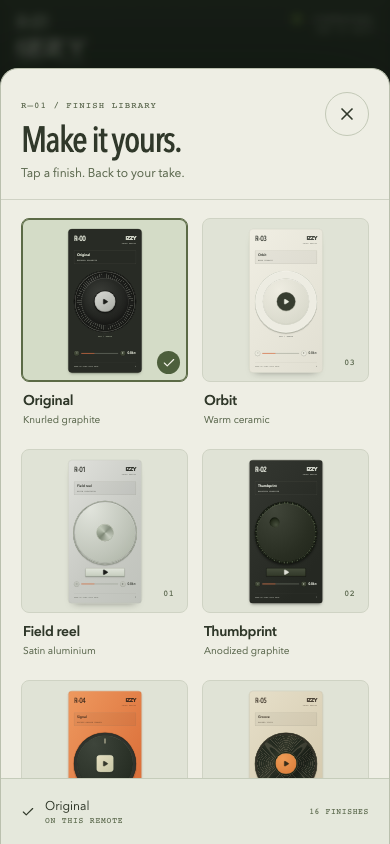
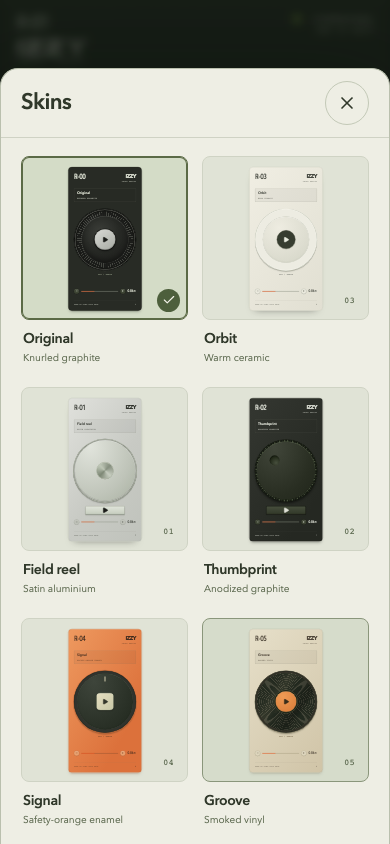
Simplify remote skin picker copy and layout

diff --git a/src/product/remote-skin-library.css b/src/product/remote-skin-library.css
@@ -5,10 +5,8 @@
 }
 .remote-skin-library[open] { display:flex; flex-direction:column; }
 .remote-skin-library::backdrop { background:#0d160dbd; backdrop-filter:blur(5px); }
-.remote-skin-heading { display:flex; flex-shrink:0; justify-content:space-between; gap:16px; padding:25px 24px 20px; border-bottom:1px solid #cfd2c4; }
-.remote-skin-eyebrow { font:9px/1.5 'SFMono-Regular',Consolas,monospace; letter-spacing:.12em; color:#647057; }
-.remote-skin-heading h2 { margin:8px 0 6px; font:500 38px/1.05 'Avenir Next Condensed','Helvetica Neue',sans-serif; letter-spacing:-.045em; }
-.remote-skin-heading p { margin:0; font-size:12px; color:#647057; }
+.remote-skin-heading { display:flex; flex-shrink:0; justify-content:space-between; align-items:center; gap:16px; padding:12px 24px; border-bottom:1px solid #cfd2c4; }
+.remote-skin-heading h2 { margin:0; font:600 22px/1.2 'Avenir Next','Helvetica Neue',sans-serif; letter-spacing:-.025em; }
 .remote-skin-close { display:grid; place-items:center; flex-shrink:0; width:44px; height:44px; border:1px solid #c3c9b7; border-radius:50%; background:transparent; color:inherit; cursor:pointer; }
 .remote-skin-grid { min-height:0; overflow-y:auto; overscroll-behavior:contain; display:grid; grid-template-columns:repeat(3,minmax(0,1fr)); gap:18px 12px; padding:20px 24px 24px; scrollbar-width:thin; scrollbar-color:#99a38b transparent; }
 .remote-skin-card { min-width:0; padding:0 0 4px; border:0; background:transparent; color:inherit; text-align:left; cursor:pointer; border-radius:8px; font:inherit; }
@@ -21,9 +19,7 @@
 .remote-skin-material { display:block; margin-inline:2px; color:#647057; font-size:10px; line-height:1.4; }
 .remote-skin-footer { display:flex; align-items:center; flex-shrink:0; gap:12px; min-height:66px; padding:14px 24px; border-top:1px solid #c5ccba; background:#e5e8dc; }
 .remote-skin-footer [role=status] { display:flex; align-items:center; gap:10px; min-width:0; font-size:12px; line-height:1.5; }
-.remote-skin-footer small { display:block; font:8px/1.5 monospace; letter-spacing:.1em; color:#637055; }
 .remote-skin-footer a { color:#475a35; font-size:12px; flex-shrink:0; }
-.remote-skin-count { margin-left:auto; flex-shrink:0; color:#637055; font:8px/1.5 monospace; letter-spacing:.08em; }
 .remote-skin-library :focus-visible { outline:2px solid #a94c28; outline-offset:3px; }
 .remote-skin-library button:disabled { cursor:wait; }
 .remote-skin-library button { -webkit-tap-highlight-color:transparent; touch-action:manipulation; }
@@ -32,16 +28,14 @@
 @media(hover:hover) { .remote-skin-card:hover .remote-skin-sample { background:#d6dccb; border-color:#8a967b; }.remote-skin-close:hover { background:#dce0d0; } }
 @media(max-width:600px) {
   .remote-skin-library { inset:auto 0 0; width:100%; height:min(820px,92dvh); margin:0; border-radius:18px 18px 0 0; border-bottom:0; }
-  .remote-skin-heading { padding:23px max(20px,env(safe-area-inset-right)) 18px max(20px,env(safe-area-inset-left)); }
-  .remote-skin-heading h2 { font-size:36px; }
-  .remote-skin-grid { grid-template-columns:repeat(2,minmax(0,1fr)); gap:18px 14px; padding:18px max(20px,env(safe-area-inset-right)) 24px max(20px,env(safe-area-inset-left)); }
+  .remote-skin-heading { padding:12px max(20px,env(safe-area-inset-right)) 12px max(20px,env(safe-area-inset-left)); }
+  .remote-skin-grid { grid-template-columns:repeat(2,minmax(0,1fr)); gap:18px 14px; padding:18px max(20px,env(safe-area-inset-right)) max(24px,env(safe-area-inset-bottom)) max(20px,env(safe-area-inset-left)); }
   .remote-skin-sample { height:164px; }
   .remote-skin-footer { padding:14px max(20px,env(safe-area-inset-right)) max(14px,env(safe-area-inset-bottom)) max(20px,env(safe-area-inset-left)); flex-wrap:wrap; }
-  .remote-skin-footer:has(a) .remote-skin-count { display:none; }
 }
 @media(max-height:500px) and (orientation:landscape) {
   .remote-skin-library { height:calc(100dvh - 20px); }
-  .remote-skin-heading { padding:12px 20px; align-items:center; }.remote-skin-heading h2 { font-size:28px; margin:3px 0; }.remote-skin-heading p { display:none; }
+  .remote-skin-heading { padding:8px 20px; }
   .remote-skin-grid { grid-template-columns:repeat(4,minmax(0,1fr)); padding:12px 20px; gap:14px 10px; }.remote-skin-footer { min-height:50px; padding:10px 20px; }
 }
 @media(prefers-reduced-motion:reduce) { .remote-skin-sample { transition:none; } }

diff --git a/src/product/RemoteSkinLibrary.tsx b/src/product/RemoteSkinLibrary.tsx
@@ -34,7 +34,7 @@ export function RemoteSkinLibrary({ selected, pro, onApply, onClose }: {
     if (applying.current) return
     const skin = skinById(id)
     if (skin.pro && !pro) {
-      setNotice(`${skin.name} is a Pro finish.`); setLocked(true)
+      setNotice(`${skin.name} requires Pro.`); setLocked(true)
       return
     }
     applying.current = true
@@ -43,15 +43,15 @@ export function RemoteSkinLibrary({ selected, pro, onApply, onClose }: {
       const ok = await onApply(id)
       if (!alive.current) return
       if (ok) onClose()
-      else setNotice('Could not change the finish. Check your connection and Pro access, then try again.')
+      else setNotice('Could not change the skin. Check your connection and Pro access, then try again.')
     } catch {
-      if (alive.current) setNotice('Could not change the finish. Please try again.')
+      if (alive.current) setNotice('Could not change the skin. Please try again.')
     } finally {
       applying.current = false
       if (alive.current) setPending(null)
     }
   }
-  return createPortal(<dialog ref={dialog} id="remote-skin-library" className="remote-skin-library" aria-labelledby="remote-skin-title" aria-describedby="remote-skin-help"
+  return createPortal(<dialog ref={dialog} id="remote-skin-library" className="remote-skin-library" aria-labelledby="remote-skin-title"
     onCancel={event => { event.preventDefault(); onClose() }} onClick={event => { if (event.target === event.currentTarget) onClose() }}
     onKeyDown={event => {
       if (event.key !== 'Tab') return
@@ -60,11 +60,11 @@ export function RemoteSkinLibrary({ selected, pro, onApply, onClose }: {
       if (event.shiftKey && document.activeElement === first) { event.preventDefault(); last?.focus() }
       else if (!event.shiftKey && document.activeElement === last) { event.preventDefault(); first?.focus() }
     }}>
-    <header className="remote-skin-heading"><div><span className="remote-skin-eyebrow">R–01 / FINISH LIBRARY</span><h2 id="remote-skin-title">Make it yours.</h2><p id="remote-skin-help">Tap a finish. Back to your take.</p></div><button className="remote-skin-close" onClick={onClose} aria-label="Close skin library"><X size={20} /></button></header>
-    <div className="remote-skin-grid" role="group" aria-label="Remote finishes" aria-busy={pending !== null}>{skins.map(skin => <button key={skin.id} className="remote-skin-card" aria-label={`Use ${skin.name}${skin.pro && !pro ? ' · Pro finish' : ''}`} aria-pressed={selected === skin.id} disabled={pending !== null} onClick={() => void choose(skin.id)}>
+    <header className="remote-skin-heading"><h2 id="remote-skin-title">Skins</h2><button className="remote-skin-close" onClick={onClose} aria-label="Close skin library"><X size={20} /></button></header>
+    <div className="remote-skin-grid" role="group" aria-label="Remote skins" aria-busy={pending !== null}>{skins.map(skin => <button key={skin.id} className="remote-skin-card" aria-label={`Use ${skin.name}${skin.pro && !pro ? ' · Pro skin' : ''}`} aria-pressed={selected === skin.id} disabled={pending !== null} onClick={() => void choose(skin.id)}>
       <span className="remote-skin-sample"><RemoteInstrument skin={skin.id} motion={false} /><span className="remote-skin-marker">{selected === skin.id ? <Check size={14} /> : skin.pro && !pro ? <LockKeyhole size={12} /> : skin.number}</span></span>
       <span className="remote-skin-name">{skin.name}</span><span className="remote-skin-material">{skin.material}</span>
     </button>)}</div>
-    <footer className="remote-skin-footer"><div role="status">{pending ? `Applying ${skinById(pending).name}…` : notice || <><Check size={14} /><span>{skinById(selected).name}<small>ON THIS REMOTE</small></span></>}</div>{locked && <a href="/pro" target="_blank" rel="noopener noreferrer">Explore Pro ↗</a>}<span className="remote-skin-count">16 FINISHES</span></footer>
+    {(pending || notice) && <footer className="remote-skin-footer"><div role="status">{pending ? `Applying ${skinById(pending).name}…` : notice}</div>{locked && <a href="/pro" target="_blank" rel="noopener noreferrer">Pro details ↗</a>}</footer>}
   </dialog>, document.body)
 }

diff --git a/test/e2e/remote-skin-library.spec.ts b/test/e2e/remote-skin-library.spec.ts
@@ -2,7 +2,7 @@ import { test, expect, type Page } from '@playwright/test'
 
 async function openRemote(page: Page, pro = true) {
   await page.goto('/')
-  await page.getByRole('textbox', { name: 'Teleprompter script' }).fill('A synthetic take for the remote finish library.\n\nA second paragraph for playback checks.')
+  await page.getByRole('textbox', { name: 'Teleprompter script' }).fill('A synthetic take for the remote skin library.\n\nA second paragraph for playback checks.')
   await page.getByRole('button', { name: 'SET UP PROMPTER', exact: true }).click()
   const href = await page.getByRole('link', { name: /OPEN REMOTE/ }).getAttribute('href')
   await page.route('**/api/sessions/*/appearance', route => route.fulfill({ json: { pro } }))
@@ -27,7 +27,7 @@ for (const viewport of [{ width: 360, height: 640 }, { width: 390, height: 844 }
     expect(bounds!.width).toBeGreaterThanOrEqual(44)
     expect(bounds!.height).toBeGreaterThanOrEqual(44)
     await trigger.click()
-    const dialog = page.getByRole('dialog', { name: 'Make it yours.' })
+    const dialog = page.getByRole('dialog', { name: 'Skins' })
     await expect(dialog.getByRole('button', { name: /^Use / })).toHaveCount(16)
     await expect(dialog.getByRole('button', { name: 'Use Original', exact: true })).toBeFocused()
     expect(await dialog.evaluate(el => el.scrollWidth - el.clientWidth)).toBeLessThanOrEqual(1)
@@ -36,7 +36,7 @@ for (const viewport of [{ width: 360, height: 640 }, { width: 390, height: 844 }
     expect(box!.x).toBeGreaterThanOrEqual(0)
     expect(box!.y + box!.height).toBeLessThanOrEqual(viewport.height + 1)
     await expect(dialog.getByRole('button', { name: 'Close skin library' })).toBeInViewport()
-    await expect(dialog.locator('.remote-skin-footer')).toBeInViewport()
+    await expect(dialog.locator('.remote-skin-footer')).toHaveCount(0)
     for (const sample of await dialog.locator('.remote-skin-sample').all()) {
       const stage = await sample.boundingBox()
       const object = await sample.locator('.remote-instrument').boundingBox()
@@ -60,14 +60,14 @@ for (const viewport of [{ width: 360, height: 640 }, { width: 390, height: 844 }
   })
 }
 
-test('locked finishes stay in the session and storage failure leaves the library recoverable', async ({ page }) => {
+test('locked skins stay in the session and storage failure leaves the library recoverable', async ({ page }) => {
   await page.setViewportSize({ width: 390, height: 844 })
   await openRemote(page, false)
   const trigger = page.getByRole('button', { name: 'Change remote skin' })
   await trigger.click()
-  await page.getByRole('button', { name: 'Use Orbit · Pro finish', exact: true }).click()
-  await expect(page.getByRole('status')).toContainText('Orbit is a Pro finish.')
-  await expect(page.getByRole('link', { name: 'Explore Pro' })).toHaveAttribute('target', '_blank')
+  await page.getByRole('button', { name: 'Use Orbit · Pro skin', exact: true }).click()
+  await expect(page.getByRole('status')).toContainText('Orbit requires Pro.')
+  await expect(page.getByRole('link', { name: 'Pro details' })).toHaveAttribute('target', '_blank')
   await expect(page.getByRole('main', { name: 'Remote controller' })).toHaveClass(/skin--original/)
   await page.keyboard.press('Escape')
   await expect(trigger).toBeFocused()
@@ -78,7 +78,7 @@ test('locked finishes stay in the session and storage failure leaves the library
   await expect(page.getByRole('button', { name: 'Use Orbit', exact: true })).toBeVisible()
   await page.evaluate(() => { Storage.prototype.setItem = () => { throw new Error('Storage unavailable') } })
   await page.getByRole('button', { name: 'Use Orbit', exact: true }).click()
-  await expect(page.getByRole('dialog')).toContainText('Could not change the finish')
+  await expect(page.getByRole('dialog')).toContainText('Could not change the skin')
   await expect(page.getByRole('button', { name: 'Use Orbit', exact: true })).toBeEnabled()
   await expect(page.getByRole('main', { name: 'Remote controller' })).toHaveClass(/skin--original/)
   await page.getByRole('button', { name: 'Close skin library' }).click()

diff --git a/src/pages/RemotePage.tsx b/src/pages/RemotePage.tsx
@@ -199,7 +199,7 @@ export function RemoteSurface({ sessionId, session }: { sessionId: string; sessi
       <QuickEdit sessionId={sessionId} epoch={sessionEpoch} connectionId={connectionId} connection={connection}
         document={izzyDocument} revision={script.revision} editing={editing} request={request}
         canEdit={hasDisplayPosition} beforeOpen={flushSeek} />
-      {!appearance.local && <><button className="remote-finish-button" aria-label="Change remote skin" aria-describedby="remote-current-finish" title={`Change remote skin · ${skinById(appearance.skin).name}`} aria-haspopup="dialog" aria-expanded={finishOpen} aria-controls={finishOpen ? 'remote-skin-library' : undefined} onClick={event => { event.currentTarget.focus(); flushSeek(); setFinishOpen(true) }}><SwatchBook size={19} strokeWidth={1.6} /></button><span id="remote-current-finish" className="sr-only" aria-live="polite">Current finish: {skinById(appearance.skin).name}</span></>}
+      {!appearance.local && <><button className="remote-finish-button" aria-label="Change remote skin" aria-describedby="remote-current-skin" title={`Change remote skin · ${skinById(appearance.skin).name}`} aria-haspopup="dialog" aria-expanded={finishOpen} aria-controls={finishOpen ? 'remote-skin-library' : undefined} onClick={event => { event.currentTarget.focus(); flushSeek(); setFinishOpen(true) }}><SwatchBook size={19} strokeWidth={1.6} /></button><span id="remote-current-skin" className="sr-only" aria-live="polite">Current skin: {skinById(appearance.skin).name}</span></>}
       </div>
       <footer className="remote-footer"><span>TURN TO SEEK</span><span>PRESS CENTER TO {localPlaying ? 'PAUSE' : 'PLAY'}</span></footer>
       {finishOpen && <RemoteSkinLibrary selected={appearance.skin} pro={appearance.pro} onApply={appearance.apply} onClose={() => setFinishOpen(false)} />}

diff --git a/test/e2e/product-pages.spec.ts b/test/e2e/product-pages.spec.ts
@@ -106,7 +106,7 @@ test('every finish can be applied on an entitled remote without changing its con
     entitled = false
     await remote.getByRole('button', { name: 'Change remote skin', exact: true }).click()
     await remote.getByRole('button', { name: 'Use Orbit', exact: true }).click()
-    await expect(remote.getByRole('dialog')).toContainText('Could not change the finish')
+    await expect(remote.getByRole('dialog')).toContainText('Could not change the skin')
     await expect(remote.getByRole('main', { name: 'Remote controller' })).toHaveClass(/skin--original/)
     expect(await remote.evaluate(() => localStorage.getItem('izzy:remote-finish:v1'))).toBe('airframe')
     await remote.keyboard.press('Escape')

diff --git a/docs/REMOTE_SKINS.md b/docs/REMOTE_SKINS.md
@@ -28,11 +28,13 @@ Live speed controls and the preserved lab studies keep their input semantics.
 
 ## 17 October in-session library candidate
 
-The online remote's finish link becomes a 44 px swatch icon beside Quick Edit.
+The online remote's skin button is a 44 px swatch icon beside Quick Edit.
 It opens an in-session library with all sixteen static instrument previews,
-material labels and a check on the effective current finish. On phones this is
-a two-column bottom sheet; larger screens use a centered library. The heading,
-close button and current-finish footer stay visible while the collection scrolls.
+material labels and a check on the effective current skin. On phones this is
+a two-column bottom sheet; larger screens use a centered library. A compact
+“Skins” heading and close button stay visible while the collection scrolls.
+There is no promotional heading, eyebrow, subtitle or redundant selection footer;
+the bottom status area appears only while applying or reporting an error.
 Opening the library focuses and reveals the current choice. One tap verifies
 the existing Pro grant, saves the browser preference, closes the library and
 returns focus to the icon. Opening or applying does not pause playback, edit

diff --git a/docs/design/2026-10-17-remote-skin-library/README.md b/docs/design/2026-10-17-remote-skin-library/README.md
@@ -1,12 +1,12 @@
-# In-session remote finish library
+# In-session remote skin library
 
 The swatch icon beside Quick Edit opens a compact library instead of the public
-showroom's one-at-a-time preview. Tap any unlocked finish to apply it and return
+showroom's one-at-a-time preview. Tap any unlocked skin to apply it and return
 to the take. The collection uses IZZY's cream and olive palette, material labels
 and the actual shared instrument artwork. Previews remain still during a take.
 
 - [Mobile library](mobile-library.png): two columns, current-choice check,
-  fixed heading/close and current-finish footer.
+  compact “Skins” heading and fixed Close control. Status appears only when needed.
 - [Remote with Airframe applied](mobile-remote.png): 44 px swatch button beside
   Quick Edit; transport continues through selection.
 
